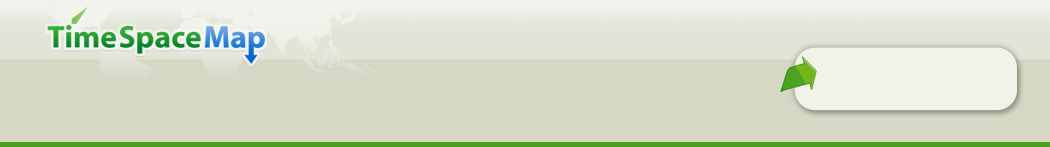
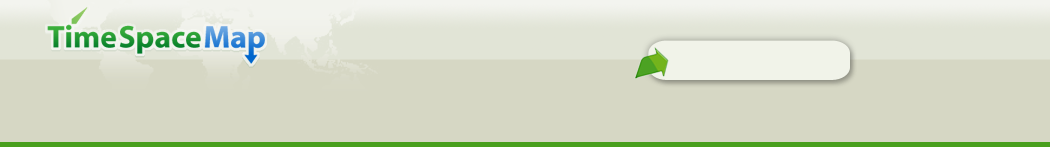
TSM-144 - page width * page width is now about 870px

Changed region(s): [[0.579, 0.2449, 0.9752, 0.7891], [0.6095, 0.2721, 0.64, 0.2993]]

diff --git a/tsm/src/main/webapp/css/main.css b/tsm/src/main/webapp/css/main.css
@@ -16,7 +16,7 @@
 	margin: 0;
 	padding: 0;
 	top: -152px;
-	width: 1050px;
+	width: 855px;
 	margin-right:auto;
 	margin-left:auto;
 	}
@@ -34,11 +34,11 @@
 	width:100%;
 	}
 	#main #left {
-	padding: 15px 20px 0 25px;
+	padding: 15px 10px 0 25px;
 	}
 	#main #right {
-	padding: 25px 25px 0 20px;
-	width: 540px;
+	padding: 25px 25px 0 10px;
+	width: 500px;
 	}
 	#main p{
 	margin: 0 0 .8em 0;
@@ -55,7 +55,7 @@
 	#main #spotlightbox {
 	background: url(../images/spotlight-backg.png) repeat-x;
 	height:496px;
-	width:551px;
+	width:491px;
 	}
 	#main #borderbox {
 	text-align:center
@@ -77,6 +77,9 @@
 	padding: 1em .4em;
 	margin: 0;
 	font-weight:bold;
+	}
+	#main .rightwidth {
+	width:320px;
 	}
 	#main .recent hr {
 	color: #BBC7D5;

diff --git a/tsm/src/main/webapp/css/header.css b/tsm/src/main/webapp/css/header.css
@@ -18,8 +18,8 @@
 	
 	#addbox {
 	position:relative;
-	left: 830px;
-	top: 52px;
+	left: 684px;
+	top: 43px;
 	font-weight: bold;
 	width: 15em;
 	}
@@ -30,7 +30,7 @@
 	position:absolute;
 	top: 68px;
 	left:40px;
-	width: 1050px;
+	width: 855px;
 	margin-right:auto;
 	margin-left:auto;
 	font-weight: bold;

diff --git a/tsm/src/main/webapp/css/search.css b/tsm/src/main/webapp/css/search.css
@@ -4,9 +4,7 @@
 	background: #FFFFFF url(../images/search-backg.gif) repeat-x;
 	}
 	#addbox {
-	position:relative;
-	left: 830px;
-	top: 54px;
+	top: 48px;
 	}
   #headerbar {
 	height:147px;
